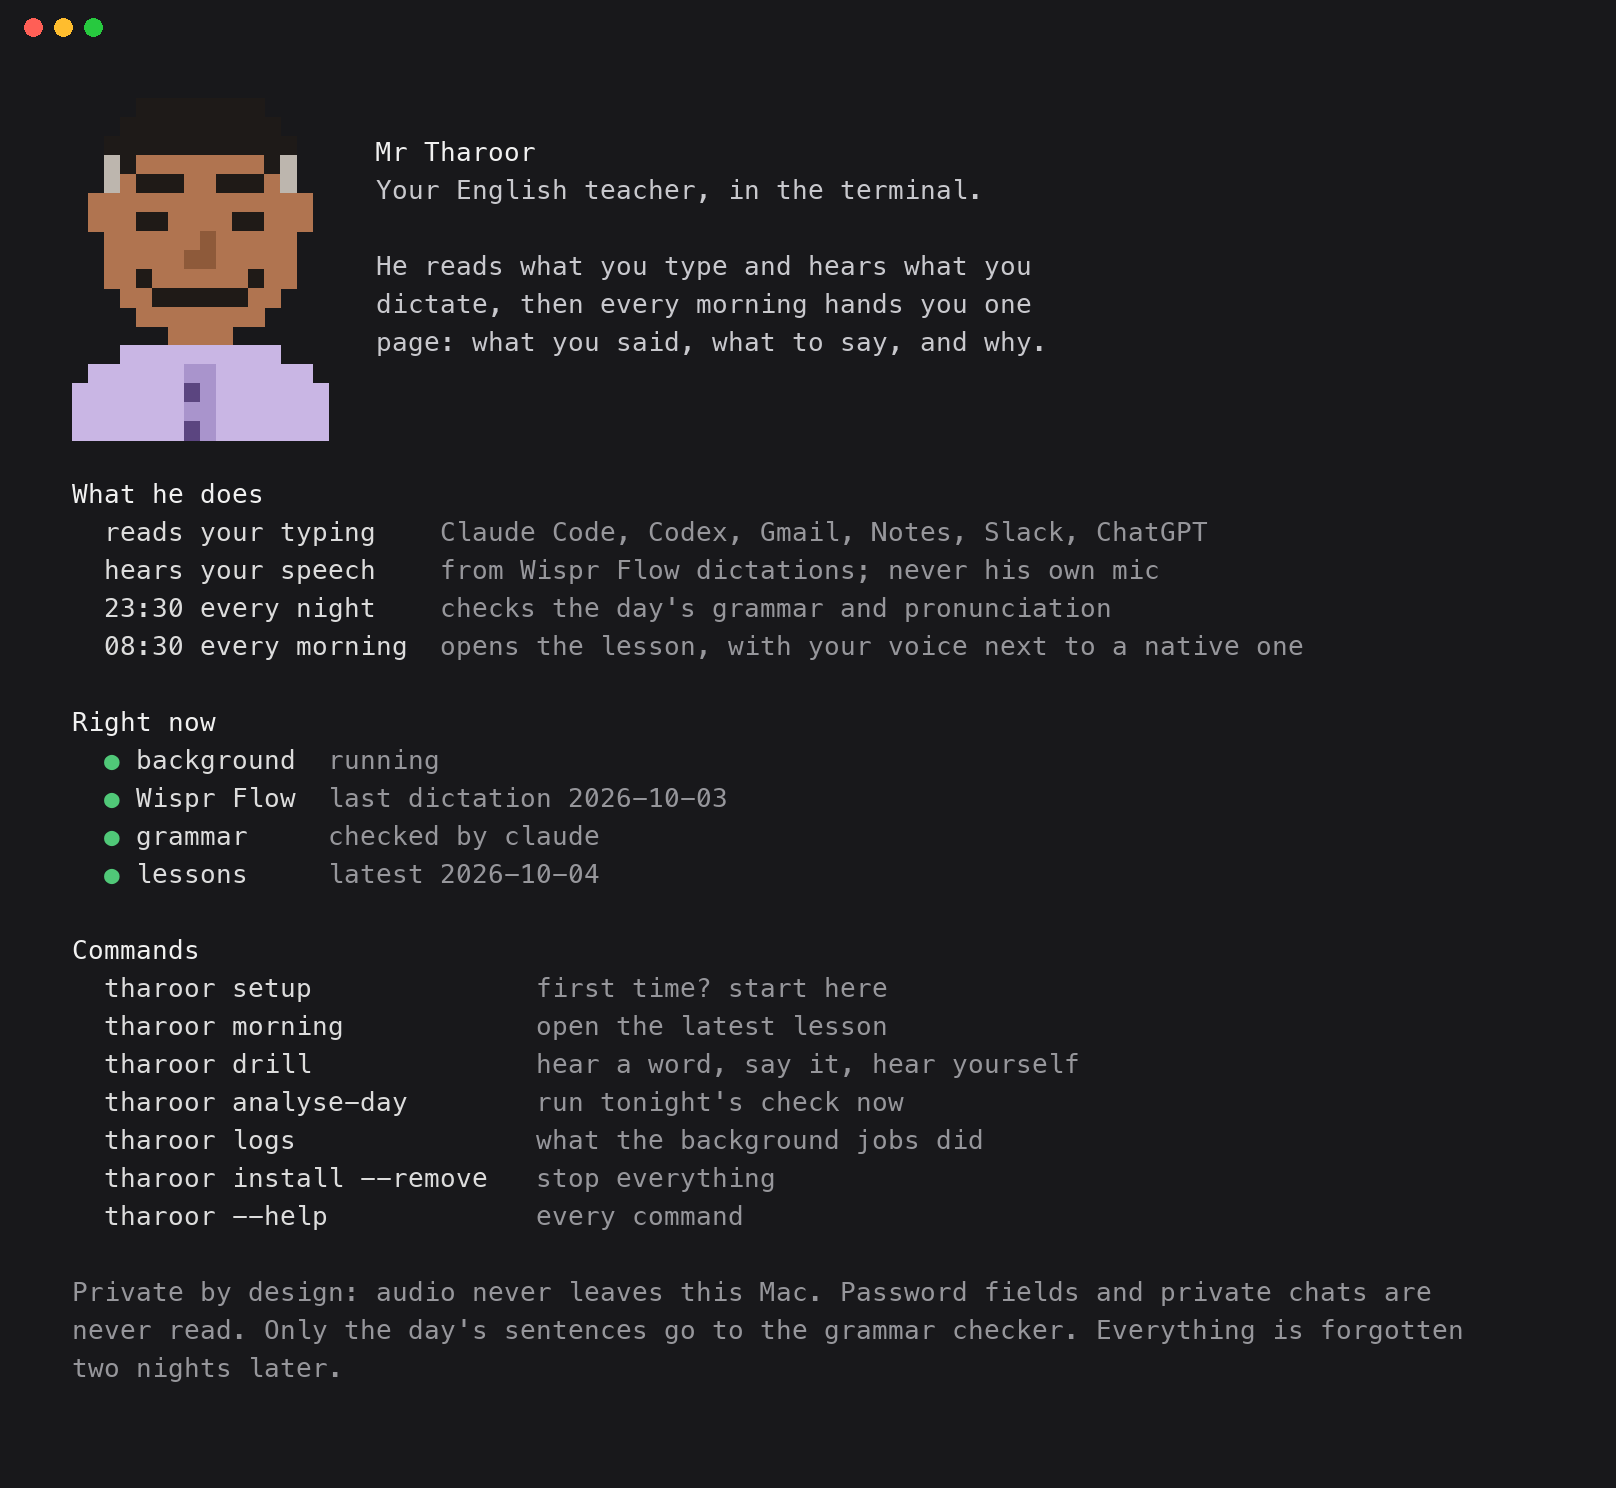
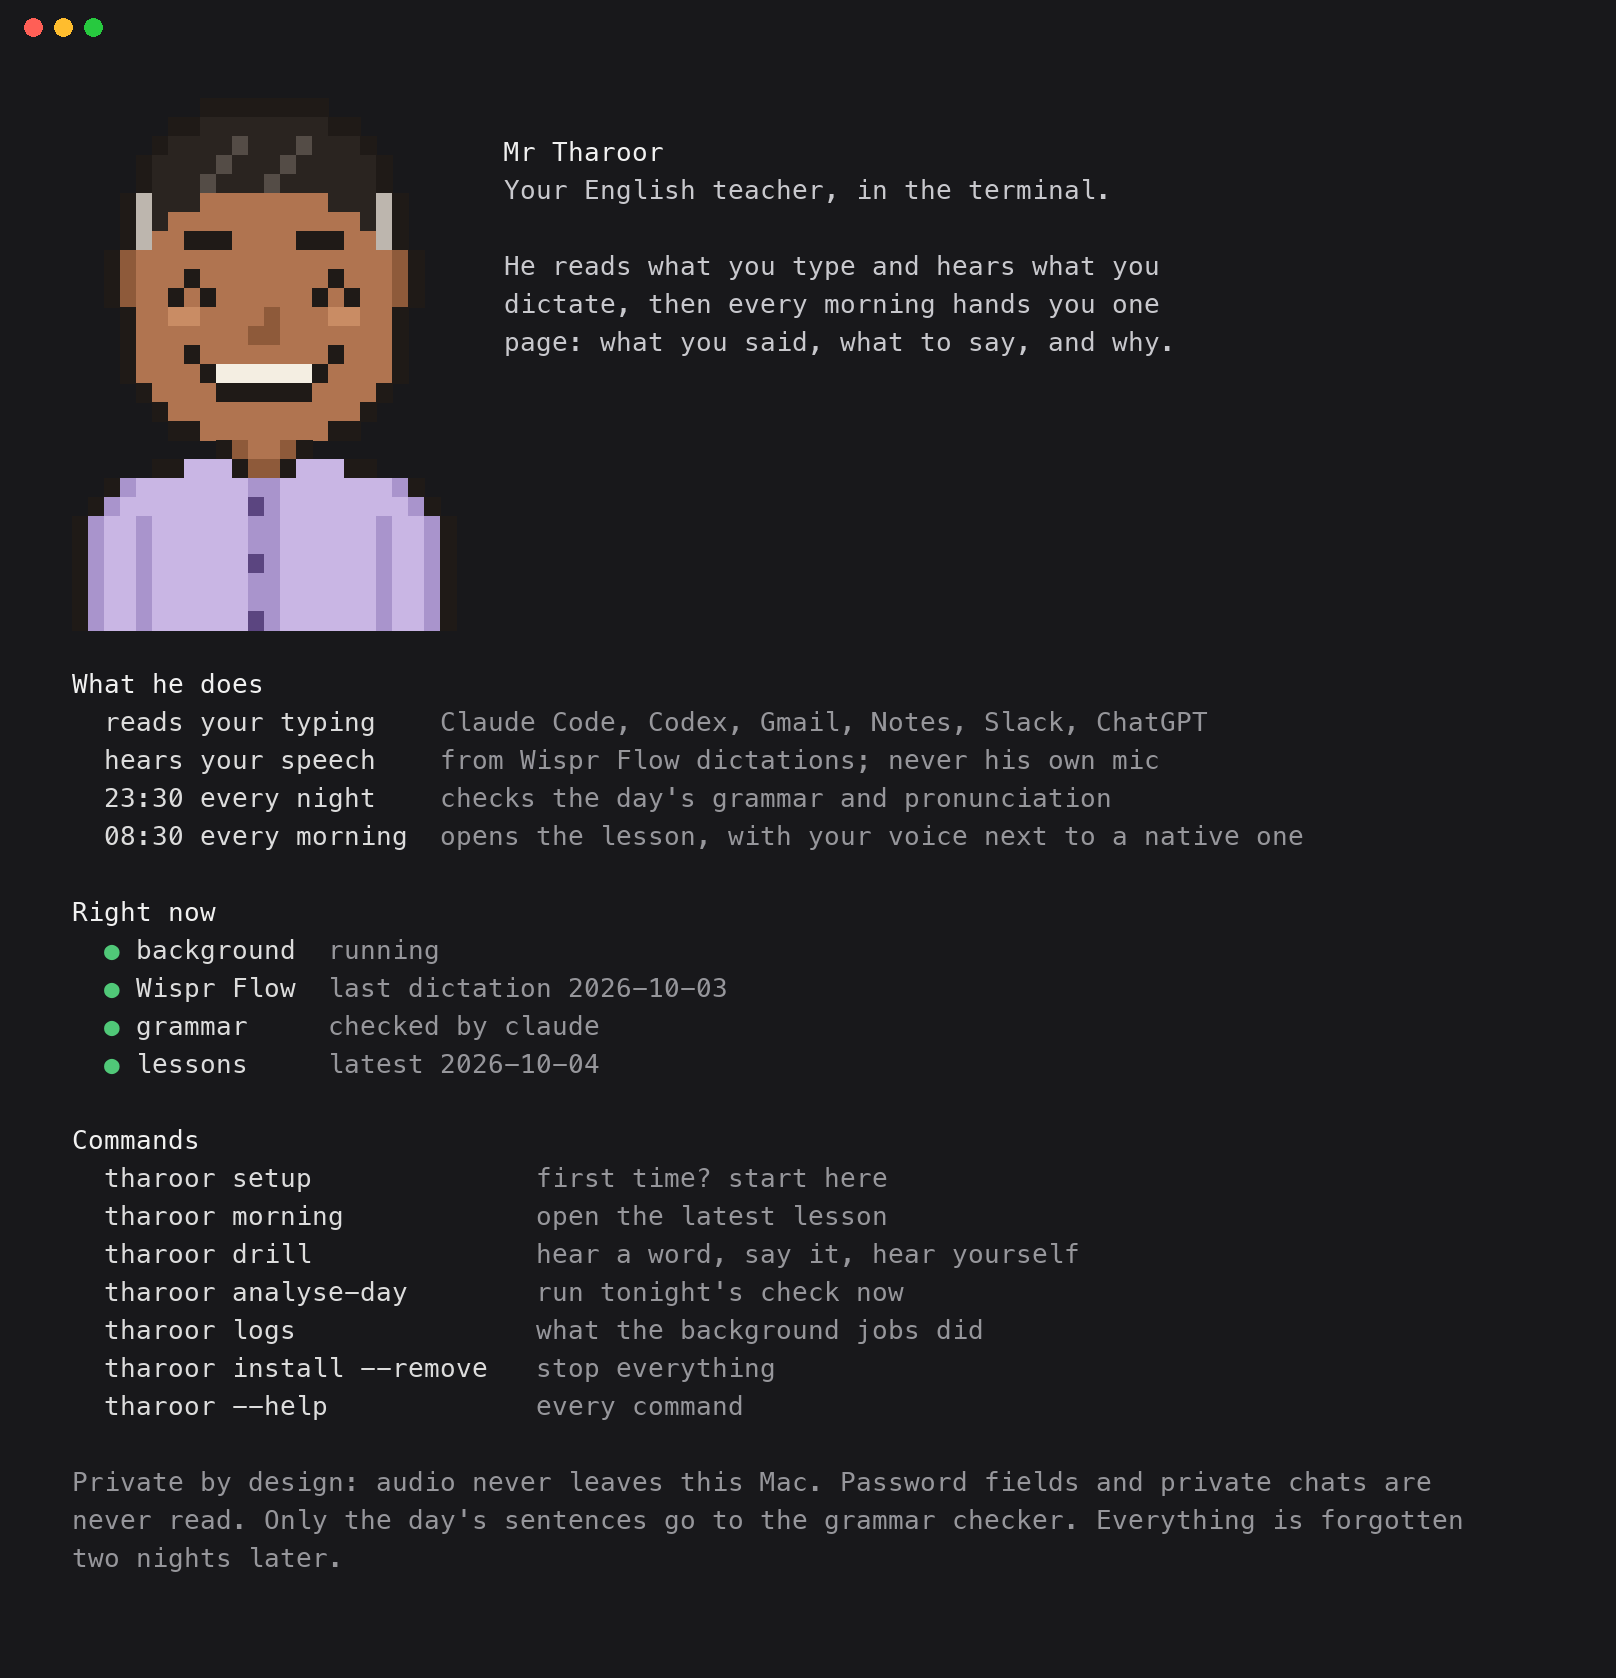
Sharper terminal portrait: 24x28 pixels, smiling eyes, shading, swept hair

diff --git a/mr_tharoor/welcome.py b/mr_tharoor/welcome.py
@@ -2,7 +2,7 @@
 
 The portrait is pixel art drawn with half blocks: each character cell is two
 pixels, the top one in the foreground colour and the bottom in the background,
-so a 16x18 grid prints as 16x9 characters.
+so a 24x28 grid prints as 24x14 characters.
 """
 
 from __future__ import annotations
@@ -11,30 +11,41 @@ import os
 import sys
 
 ART = [
-    "....HHHHHHHH....",
-    "...HHHHHHHHHH...",
-    "..HHHHHHHHHHHH..",
-    "..XHSSSSSSSSHX..",
-    "..XSDDDSSDDDSX..",
-    ".SSSSSSSSSSSSSS.",
-    ".SSSDDSSSSDDSSS.",
-    "..SSSSSSNSSSSS..",
-    "..SSSSSNNSSSSS..",
-    "..SSDSSSSSSDSS..",
-    "...SSDDDDDDSS...",
-    "....SSSSSSSS....",
-    "......SSSS......",
-    "...KKKKKKKKKK...",
-    ".KKKKKKLLKKKKKK.",
-    "KKKKKKKPLKKKKKKK",
-    "KKKKKKKLLKKKKKKK",
-    "KKKKKKKPLKKKKKKK",
+    "........OOOOOOOO........",
+    "......OOHHHHHHHHOO......",
+    ".....OHHHHhHHHhHHHO.....",
+    "....OHHHHhHHHhHHHHHO....",
+    "....OHHHhHHHhHHHHHHO....",
+    "...OXHHHSSSSSSSSHHHXO...",
+    "...OXHSSSSSSSSSSSSHXO...",
+    "...OXSSOOOSSSSOOOSSXO...",
+    "..OsSSSSSSSSSSSSSSSSsO..",
+    "..OsSSSOSSSSSSSSOSSSsO..",
+    "..OsSSOSOSSSSSSOSOSSsO..",
+    "...OSSllSSSSsSSSllSSO...",
+    "...OSSSSSSSssSSSSSSSO...",
+    "...OSSSOSSSSSSSSOSSSO...",
+    "...OSSSSOTTTTTTOSSSSO...",
+    "....OSSSSOOOOOOSSSSO....",
+    ".....OSSSSSSSSSSSSO.....",
+    "......OOSSSSSSSSOO......",
+    ".........OsSSsO.........",
+    ".....OOKKKOssOKKKOO.....",
+    "..OkKKKKKKKkkKKKKKKKkO..",
+    ".OkKKKKKKKKPkKKKKKKKKkO.",
+    "OkKKkKKKKKKkkKKKKKKkKKkO",
+    "OkKKkKKKKKKkkKKKKKKkKKkO",
+    "OkKKkKKKKKKPkKKKKKKkKKkO",
+    "OkKKkKKKKKKkkKKKKKKkKKkO",
+    "OkKKkKKKKKKkkKKKKKKkKKkO",
+    "OkKKkKKKKKKPkKKKKKKkKKkO",
 ]
 # The approved portrait (report.PORTRAIT): swept-back hair going silver at the
-# temples, heavy brows, smiling eyes, a light purple kurta with buttons.
+# temples, heavy brows, smiling eyes, a broad smile, a light purple kurta.
 PALETTE = {
-    "H": (30, 26, 24), "X": (189, 182, 174), "S": (176, 116, 80), "N": (142, 90, 58),
-    "D": (31, 26, 23), "K": (201, 182, 228), "L": (169, 148, 204), "P": (91, 69, 128),
+    "O": (31, 26, 23), "H": (42, 36, 32), "h": (84, 76, 70), "X": (189, 182, 174),
+    "S": (176, 116, 80), "s": (142, 90, 58), "l": (201, 140, 100), "T": (244, 238, 226),
+    "K": (201, 182, 228), "k": (169, 148, 204), "P": (91, 69, 128),
 }
 
 
@@ -94,7 +105,7 @@ def show() -> int:
         "dictate, then every morning hands you one",
         "page: what you said, what to say, and why.",
     ]
-    art = portrait() if colour else [" " * 16] * 9
+    art = portrait() if colour else [" " * 24] * (len(ART) // 2)
     print()
     for i, line in enumerate(art):
         print(f"  {line}   {beside[i] if i < len(beside) else ''}")
